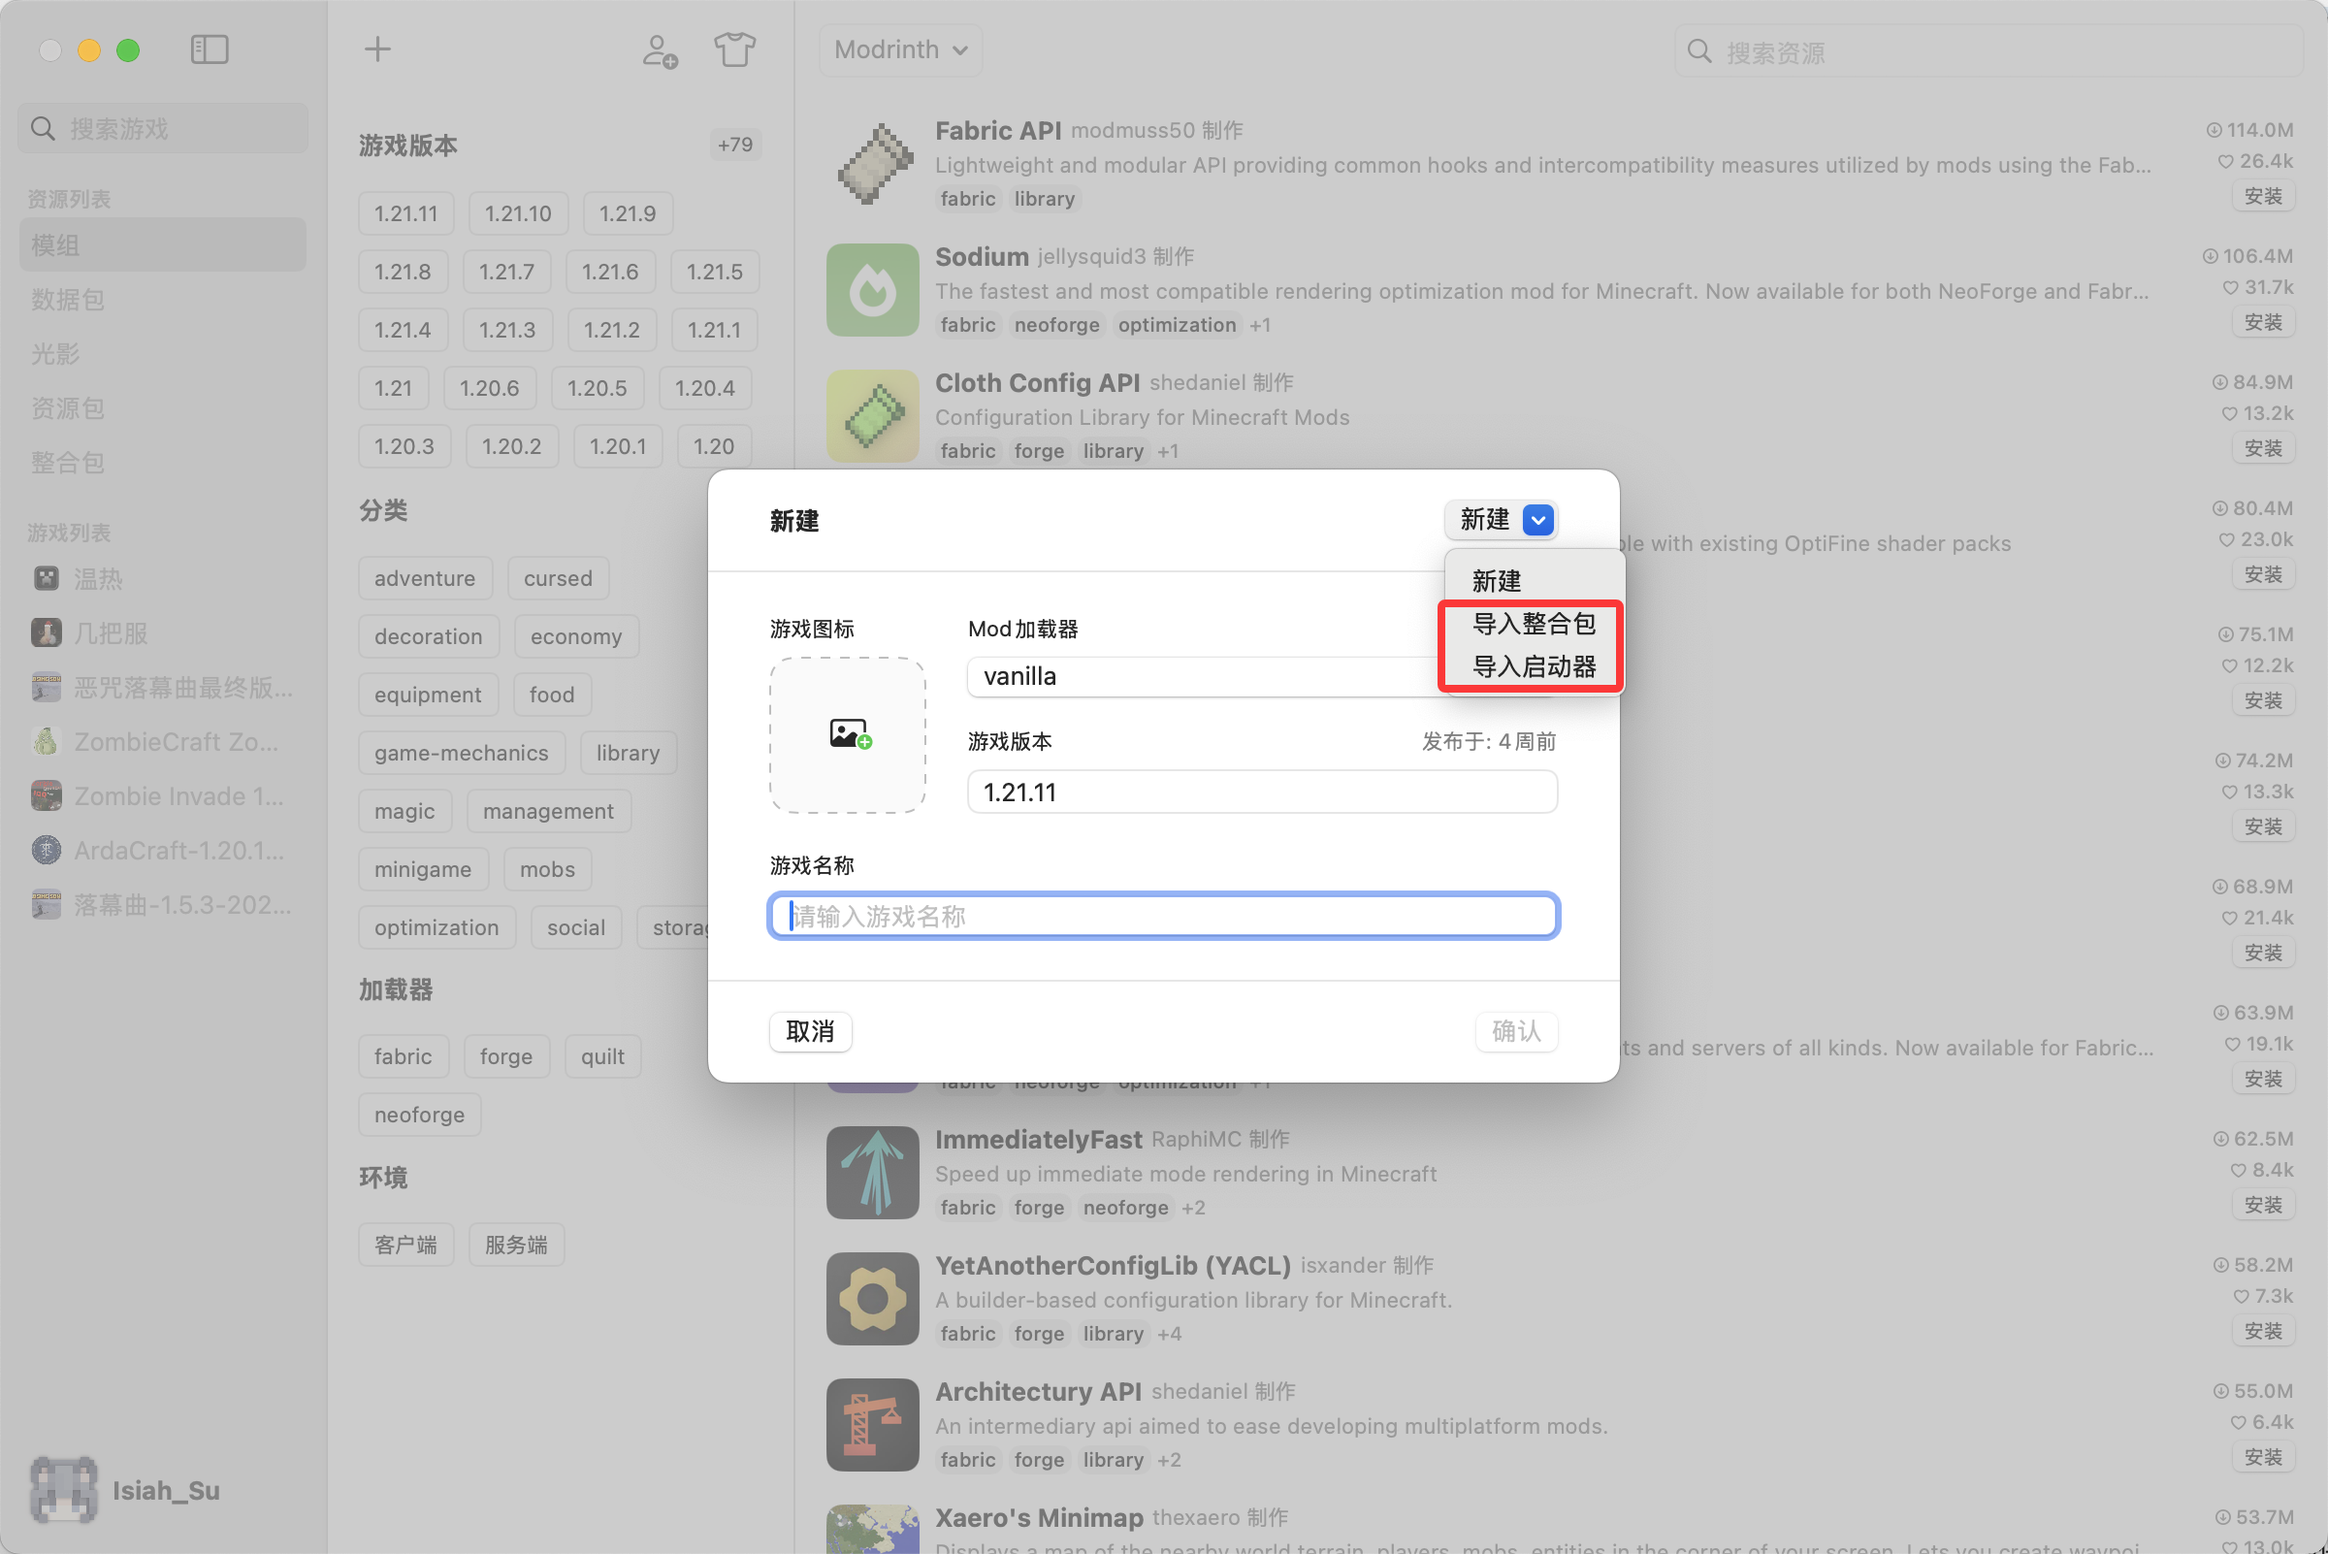
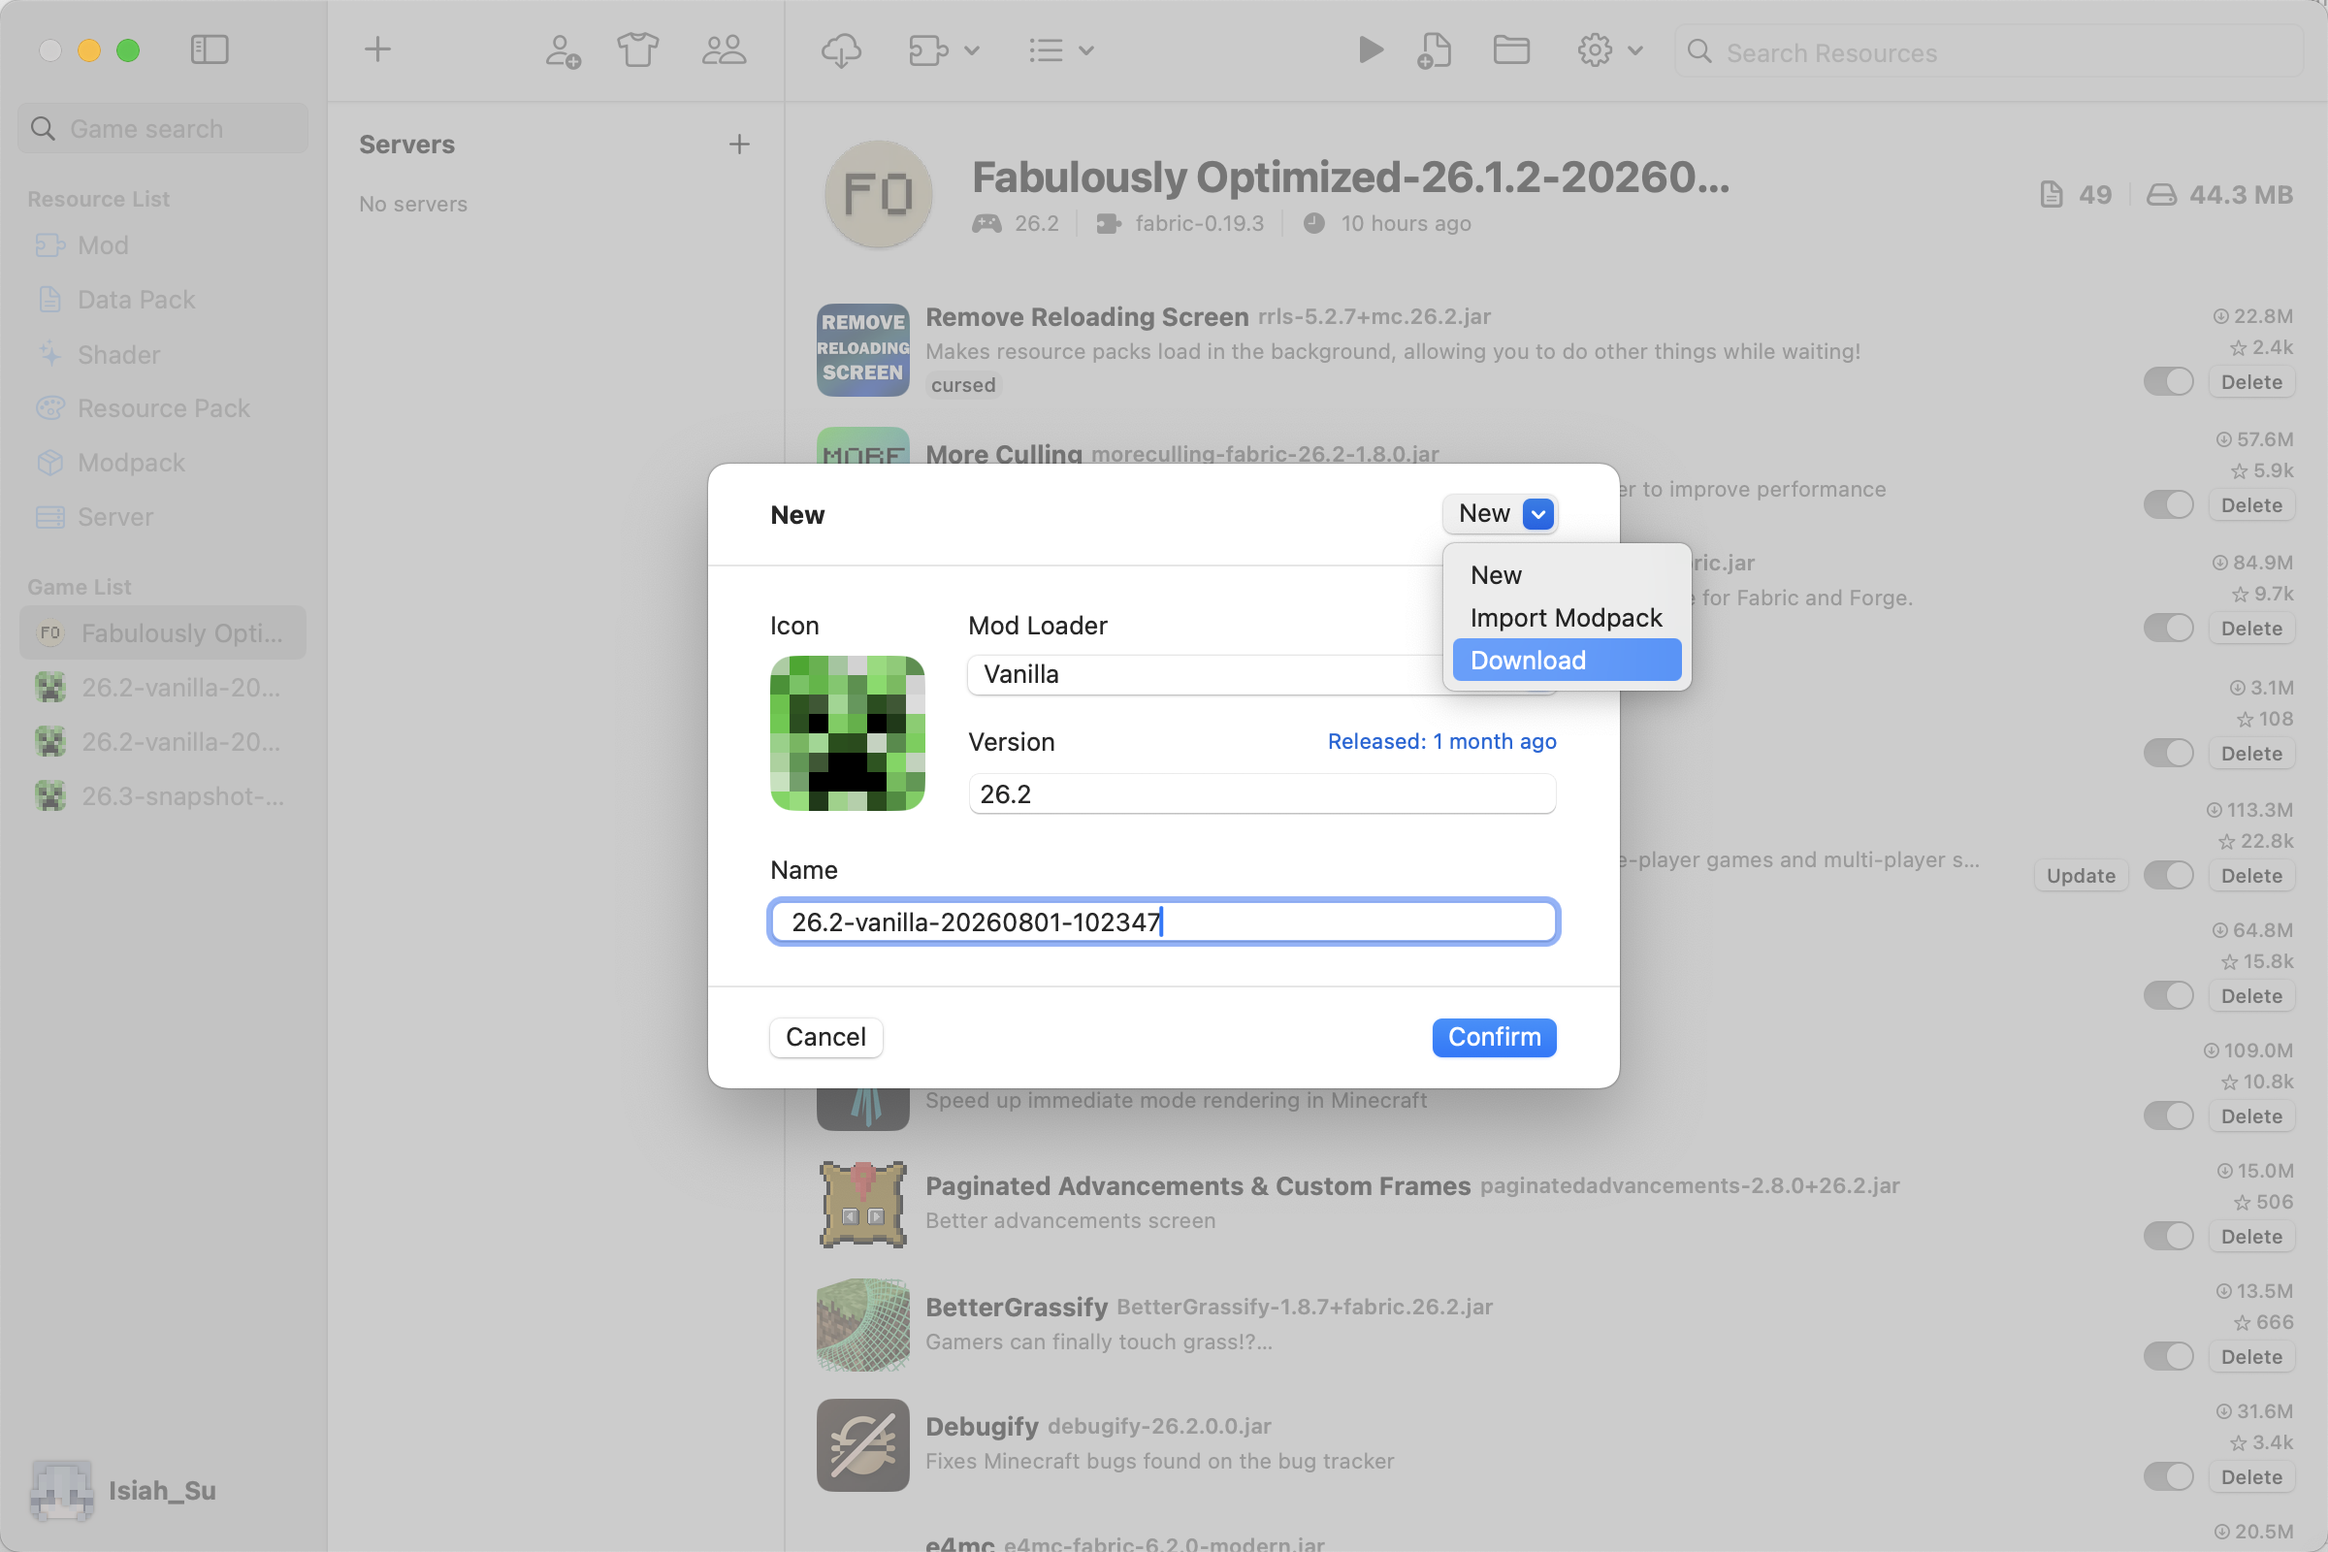
feat: 更新文档

diff --git a/help/SwiftCraftLauncher.help/Contents/Resources/en.lproj/addgame.html b/help/SwiftCraftLauncher.help/Contents/Resources/en.lproj/addgame.html
@@ -98,15 +98,15 @@
         </div>
     </div>
 
-    <h1 class="Name" style="margin-top: 0.8em;">Import from Other Launchers</h1>
-    <p style="border-bottom: 1px solid var(--border-color); padding-bottom: 1em;">Swift Craft Launcher supports importing game instances from other Minecraft launchers (such as MultiMC, Prism Launcher, etc.), including Mods, configuration files, saves, etc. Supported launcher types include MultiMC and Prism Launcher (MultiMC fork).</p>
+    <h1 class="Name" style="margin-top: 0.8em;">Download Modpack from Link</h1>
+    <p style="border-bottom: 1px solid var(--border-color); padding-bottom: 1em;">Swift Craft Launcher supports downloading modpacks from links for modpack parsing and installation. Supports standard Modrinth and CurseForge modpacks (.mrpack and .zip)</p>
 
     <div id="import-launcher-step1" class="Task">
-        <h2 aria-controls="aria-import-launcher-step1" class="Name">Step 1: Select Launcher Type and Instance Folder</h2>
+        <h2 aria-controls="aria-import-launcher-step1" class="Name">Step 1: Paste Modpack Link</h2>
         <div class="TaskBody" role="region" aria-hidden="false" id="aria-import-launcher-step1">
-            <p>Click the "Import from Other Launcher" button in the launcher, then select the launcher type (MultiMC or Prism Launcher), and select the instance folder to import.</p>
+            <p>Click the "Download" button in the launcher and paste the modpack link.</p>
             <figure>
-                <img src="https://swift-craft-launcher-imagebed.pages.dev/help/addgame/5_4.png" alt="Select launcher type and instance">
+                <img src="https://swift-craft-launcher-imagebed.pages.dev/help/addgame/5_4.png" alt="Download">
             </figure>
         </div>
     </div>
@@ -114,7 +114,7 @@
     <div id="import-launcher-step2" class="Task">
         <h2 aria-controls="aria-import-launcher-step2" class="Name">Step 2: View Instance Information</h2>
         <div class="TaskBody" role="region" aria-hidden="false" id="aria-import-launcher-step2">
-            <p>The launcher will automatically parse the instance configuration file and display instance information, including: game name, game version, Mod Loader type and version. The game name will be automatically filled with the instance name, and you can also customize it.</p>
+            <p>The launcher will automatically parse the downloaded modpack and display modpack information, including: game name, game version, Mod Loader type and version. The game name will be automatically filled with the instance name, and you can also customize it.</p>
             <figure>
             </figure>
             <div class="Alert">

diff --git a/help/SwiftCraftLauncher.help/Contents/Resources/zh-Hant.lproj/addgame.html b/help/SwiftCraftLauncher.help/Contents/Resources/zh-Hant.lproj/addgame.html
@@ -98,15 +98,15 @@
         </div>
     </div>
 
-    <h1 class="Name" style="margin-top: 0.8em;">從其他啟動器匯入存檔</h1>
-    <p style="border-bottom: 1px solid var(--border-color); padding-bottom: 1em;">Swift Craft Launcher 支援從其他 Minecraft 啟動器（如 MultiMC、Prism Launcher 等）匯入遊戲實例，包括 Mod、設定檔、存檔等。支援的啟動器類型包括 MultiMC 和 Prism Launcher（MultiMC 分支）。</p>
+    <h1 class="Name" style="margin-top: 0.8em;">從連結下載整合包進行安裝</h1>
+    <p style="border-bottom: 1px solid var(--border-color); padding-bottom: 1em;">Swift Craft Launcher 支援從連結下載整合包後進行整合包解析安裝。支援 Modrinth 和 CurseForge 的標準整合包（.mrpack 和 .zip）</p>
 
     <div id="import-launcher-step1" class="Task">
-        <h2 aria-controls="aria-import-launcher-step1" class="Name">步驟 1：選擇啟動器類型和實例資料夾</h2>
+        <h2 aria-controls="aria-import-launcher-step1" class="Name">步驟 1：貼上整合包連結</h2>
         <div class="TaskBody" role="region" aria-hidden="false" id="aria-import-launcher-step1">
-            <p>在啟動器中點擊「從其他啟動器匯入」按鈕，然後選擇啟動器類型（MultiMC 或 Prism Launcher），並選擇要匯入的實例資料夾。</p>
+            <p>在啟動器中點擊「下載」按鈕，貼上整合包連結。</p>
             <figure>
-                <img src="https://swift-craft-launcher-imagebed.pages.dev/help/addgame/5_4.png" alt="選擇啟動器類型和實例">
+                <img src="https://swift-craft-launcher-imagebed.pages.dev/help/addgame/5_4.png" alt="下載">
             </figure>
         </div>
     </div>
@@ -114,7 +114,7 @@
     <div id="import-launcher-step2" class="Task">
         <h2 aria-controls="aria-import-launcher-step2" class="Name">步驟 2：查看實例資訊</h2>
         <div class="TaskBody" role="region" aria-hidden="false" id="aria-import-launcher-step2">
-            <p>啟動器會自動解析實例設定檔，並顯示實例資訊，包括：遊戲名稱、遊戲版本、Mod Loader 類型和版本。遊戲名稱會自動填充為實例名稱，您也可以自訂修改。</p>
+            <p>啟動器會自動解析下載好的整合包，並顯示整合包資訊，包括：遊戲名稱、遊戲版本、Mod Loader 類型和版本。遊戲名稱會自動填充為實例名稱，您也可以自訂修改。</p>
             <figure>
             </figure>
             <div class="Alert">

diff --git a/help/SwiftCraftLauncher.help/Contents/Resources/zh-Hans.lproj/addgame.html b/help/SwiftCraftLauncher.help/Contents/Resources/zh-Hans.lproj/addgame.html
@@ -98,15 +98,15 @@
         </div>
     </div>
 
-    <h1 class="Name" style="margin-top: 0.8em;">从其他启动器导入存档</h1>
-    <p style="border-bottom: 1px solid var(--border-color); padding-bottom: 1em;">Swift Craft Launcher 支持从其他 Minecraft 启动器（如 MultiMC、Prism Launcher 等）导入游戏实例，包括 Mod、配置文件、存档等。支持的启动器类型包括 MultiMC 和 Prism Launcher（MultiMC 分支）。</p>
+    <h1 class="Name" style="margin-top: 0.8em;">从链接下载整合包进行安装</h1>
+    <p style="border-bottom: 1px solid var(--border-color); padding-bottom: 1em;">Swift Craft Launcher 支持从链接下载整合包后进行整合包解析安装。支持modrinth和curseforge的标准整合包（.mrpack和.zip）</p>
 
     <div id="import-launcher-step1" class="Task">
-        <h2 aria-controls="aria-import-launcher-step1" class="Name">步骤 1：选择启动器类型和实例文件夹</h2>
+        <h2 aria-controls="aria-import-launcher-step1" class="Name">步骤 1：粘贴整合包链接</h2>
         <div class="TaskBody" role="region" aria-hidden="false" id="aria-import-launcher-step1">
-            <p>在启动器中点击"从其他启动器导入"按钮，然后选择启动器类型（MultiMC 或 Prism Launcher），并选择要导入的实例文件夹。</p>
+            <p>在启动器中点击"下载"按钮，粘贴整合包链接。</p>
             <figure>
-                <img src="https://swift-craft-launcher-imagebed.pages.dev/help/addgame/5_4.png" alt="选择启动器类型和实例">
+                <img src="https://swift-craft-launcher-imagebed.pages.dev/help/addgame/5_4.png" alt="下载">
             </figure>
         </div>
     </div>
@@ -114,7 +114,7 @@
     <div id="import-launcher-step2" class="Task">
         <h2 aria-controls="aria-import-launcher-step2" class="Name">步骤 2：查看实例信息</h2>
         <div class="TaskBody" role="region" aria-hidden="false" id="aria-import-launcher-step2">
-            <p>启动器会自动解析实例配置文件，并显示实例信息，包括：游戏名称、游戏版本、Mod Loader 类型和版本。游戏名称会自动填充为实例名称，您也可以自定义修改。</p>
+            <p>启动器会自动解析下载好的整合包，并显示整合包信息，包括：游戏名称、游戏版本、Mod Loader 类型和版本。游戏名称会自动填充为实例名称，您也可以自定义修改。</p>
             <figure>
             </figure>
             <div class="Alert">
